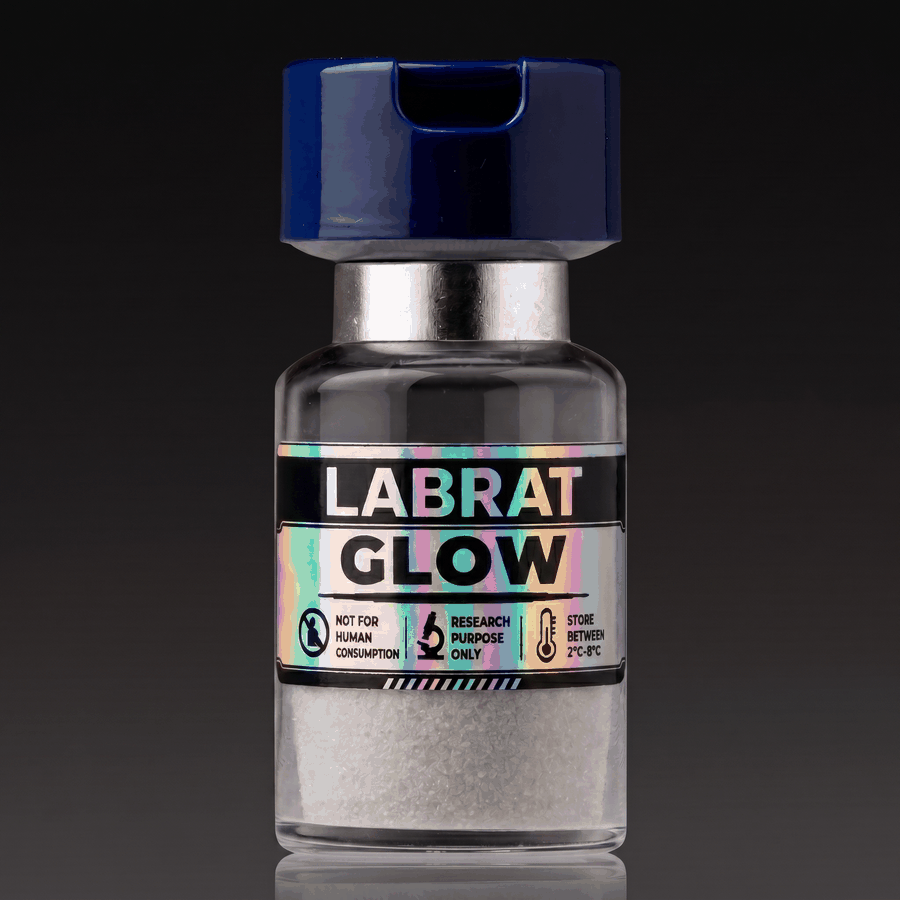
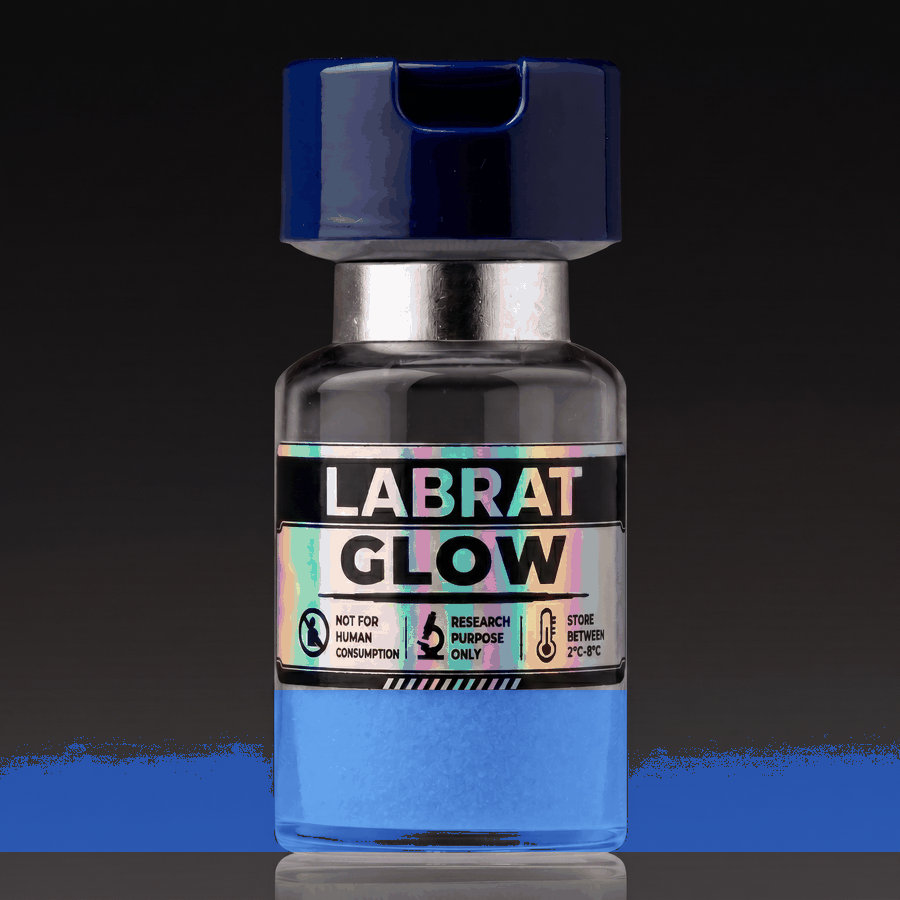
Glow is a GHK-Cu (copper) blend: blue powder + mark as copper

Changed region(s): [[0.0, 0.7467, 1.0, 0.9644]]

diff --git a/src/components/shop/ProductVialVisual.tsx b/src/components/shop/ProductVialVisual.tsx
@@ -129,7 +129,7 @@ function RealisticVial({ name, category, flags, light }: {
   const uid = (name + category).replace(/[^a-z0-9]/gi, '').slice(0, 12).toLowerCase() || 'vial';
 
   // Contents color — research: copper peptides (GHK-Cu / KLOW) are blue, the rest white/clear.
-  const isCopper = /\bghk\b|\bahk\b|klow|copper/i.test(name);
+  const isCopper = /\bghk\b|\bahk\b|klow|glow|copper/i.test(name);
   const powderTop  = isCopper ? '#93c5fd' : '#fdfdfd';
   const powderBot  = isCopper ? '#1e40af' : '#9aa6b8';
   const powderSurf = isCopper ? '#dbeafe' : '#ffffff';
@@ -354,7 +354,7 @@ export default function ProductVialVisual({ name, category, theme = 'neon' }: { 
 
   // Contents color follows the chemistry: copper peptides (GHK-Cu / KLOW) carry
   // a vivid blue lyophilized powder; every other peptide is white powder.
-  const isCopper = /\bghk\b|\bahk\b|klow|copper/i.test(name);
+  const isCopper = /\bghk\b|\bahk\b|klow|glow|copper/i.test(name);
 
   // Photo resolution: exact per-product photo → compound cutout (transparent
   // background, used on every theme so the vial sits directly on the card) →
